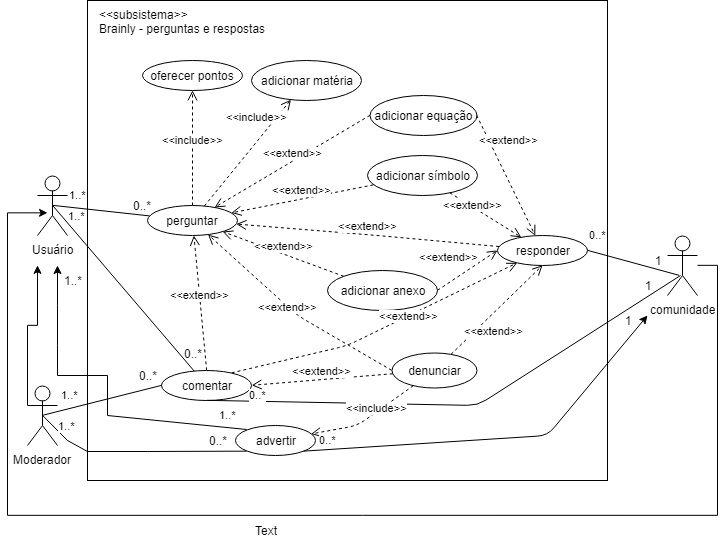
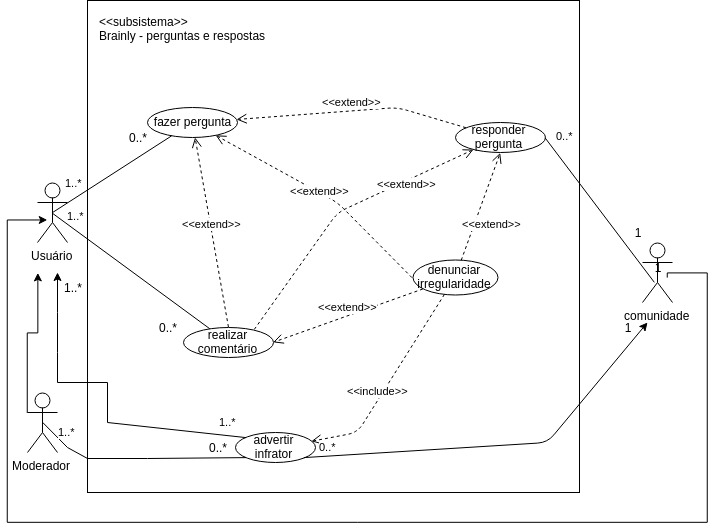
refactoring question and answer use cases

diff --git a/brainly/docs/casos_uso_perguntas_respostas.md b/brainly/docs/casos_uso_perguntas_respostas.md
@@ -1,11 +1,13 @@
-# [PERGUNTAS E RESPOSTAS](rich_picture.md#RichPicture Perguntas e Respostas)
+# CASO DE USO - [PERGUNTAS E RESPOSTAS](rich_picture.md#richpicture-perguntas-e-respostas)
 
 ## Versionamento
 
 |  Versão | Data | Modificação | Autor |
 |  :------: | :------: | :------: | :------: |
-| 1.0 | 28/04/2019 | Adição do diagrama de casos de uso de perguntas e respostas | Lieverton |
-| 1.1 | 28/04/2019 | Adição da especificação dos casos de uso de perguntas e respostas | Lieverton, João Matheus, Paulo Vitor, João Rossi |
+| 0.1 | 28/04/2019 | Adição do diagrama de casos de uso de perguntas e respostas | Lieverton, Welison |
+| [1.0](modelagem_v1/casos_uso/casos_uso_perguntas_respostas.md) | 28/04/2019 | Adição da especificação dos casos de uso de perguntas e respostas | Lieverton, João Matheus, Paulo Vitor, João Rossi |
+| 1.1 | 21/06/2019 | Refatora diagrama de caso de uso de perguntas e respostas | Lieverton Silva, Welison Regis |
+| 2.0 | 21/06/2019 | Adiciona 5 especificações de caso de uso de perguntas e respostas | Lieverton Silva, Welison Regis |
 
 ## Diagrama de Casos de Uso
 
@@ -13,79 +15,66 @@
 
 ## Especificação de Casos de Uso
 
-### 1 Breve descrição
-O usuário faz uma pergunta para ser respondida por outros usuários, utilizando seus pontos para recompensar quem respondê-la de maneira coerente.
+### UC01
 
-### 2 Breve descrição dos atores
+| UC01 | Fazer pergunta |
+| -------------: | :---|
+| **Descrição** | Um usuário acessa o Brainly e faz uma pergunta. |
+| [Usuário](lexicos10x5f8c4.md#L12660) | Ator que possui acesso às funcionalidade comuns da plataforma, como, fazer perguntas, escrever respostas e comentários, adicionar amigos, entre outras. |
+| **Pré-condições** | - Ser cadastrado na plataforma Brainly;<br/> - Possuir no mínimo dez pontos para realizar uma pergunta;<br/> - Estar logado. |
+| **Fluxo básico** | 1. Usuário pesquisa pela sua dúvida no Brainly;<br/> 2. Se o usuário não encontrar uma tarefa relacionada, usuário faz uma pergunta;<br/> 3. Usuário adiciona a matéria associada à pergunta;<br/> 4. Usuário atribui pontos à questão;<br/>5. Se o usuário estiver satisfeito com a questão ele a submete.|
+| **Fluxos alternativos** | 2.a Usuário encontra a questão desejada;<br/> 5.a Usuário adiciona anexos;<br/>5.b Usuário adiciona equações na ferramenta LaTeX;<br/>5.c Usuário adiciona símbolos matemáticos;<br/>5.d Usuário adiciona texto com diferentes formatações.|
+| **Fluxos de exceções** | [2 - 4] Usuário reinicia a página acidentalmente, ao clicar em fazer pergunta novamente, tudo o que o usuário tinha digitado e escolhido na pergunta anteriormente se mantém;<br/>[2] Usuário digita uma pergunta com menos de 20 caracteres e recebe uma mensagem de erro sem  que sua mensagem seja apagada. |
+|  **Requisitos Especiais** | - Responsabilizar o usuário por todos os dados enviados ou transmitidos em conexão com os serviços [BR2.1](brainstorm.md#tabela-de-requisitos-nao-funcionais);<br/> - Apagar perguntas que estão sem respostas por muito tempo [BR2.15](brainstorm.md#tabela-de-requisitos-nao-funcionais);<br/> - Possuir idade mínima (13) para se registrar na plataforma [BR2.1](brainstorm.md#tabela-de-requisitos-nao-funcionais). |
 
-#### 2.1 [Usuário](lexicos10x5f8c4.md#L12660)
-Ator que possui acesso às funcionalidade comuns da plataforma, como, fazer perguntas, escrever respostas e comentários, adicionar amigos, entre outras.
+### UC02
 
-#### 2.2 [Moderador](lexicos10x5f8c4.md#L12528)
-Ator que modera os conteúdos do Brainly, esclarece as políticas da plataforma à comunidade e mantém o nível de qualidade das perguntas, respostas e comentários.
+| UC02 | Responder pergunta |
+| -------------: | :---|
+| **Descrição** | Um usuário da comunidade acessa o Brainly e responde uma pergunta. |
+| [Usuário](lexicos10x5f8c4.md#L12660) | Ator que possui acesso às funcionalidade comuns da plataforma, como, fazer perguntas, escrever respostas e comentários, adicionar amigos, entre outras. |
+| [Comunidade](lexicos10x5f8c4.md#L12525) | Conjunto de usuários em prol de se ajudarem. |
+| **Pré-condições** | - Ser cadastrado na plataforma Brainly;<br/> - Estar logado;<br/> - Um usuário fazer uma pergunta ([5. UC01](#uc01));<br/> - A pegunta não ser respondida por 2 usuários.|
+| **Fluxo básico** | 1. Usuário da comunidade, que deseja contribuir, navega pela listas de perguntas;<br/> 2. Usuário da comunidade escolhe uma pergunta;<br/> 3. Usuário da comunidade responde uma pergunta. |
+| **Fluxos alternativos** | 3.a Usuário adiciona anexos;<br/>3.b Usuário adiciona equações na ferramenta LaTeX;<br/>3.c Usuário adiciona símbolos matemáticos;<br/>3.d Usuário adiciona texto com diferentes formatações.|
+| **Fluxos de exceções** | [3] Usuário da comunidade digita uma resposta com menos de 20 caracteres e recebe uma mensagem de erro sem  que sua mensagem seja apagada. |
+|  **Requisitos Especiais** | - Responsabilizar o usuário por todos os dados enviados ou transmitidos em conexão com os serviços [BR2.1](brainstorm.md#tabela-de-requisitos-nao-funcionais);<br/> - Possuir idade mínima (13) para se registrar na plataforma [BR2.1](brainstorm.md#tabela-de-requisitos-nao-funcionais);<br/> - A ferramenta que possibilita respostas deve ser consistente entre as plataformas [INT1.2](introspeccao.md);<br/> - A plataforma deve possuir membros ativos que ajudem a comunidade a crescer e respondam as perguntas de forma rápida e fácil [INT3.6](introspecção). |
 
-#### 2.3 [Comunidade](lexicos10x5f8c4.md#L12525)
-Conjunto de usuários em prol de se ajudarem.
+### UC03
 
-### 3 Pré-condições
-Ser cadastrado na plataforma Brainly.
-Possuir no mínimo dez pontos para realizar uma pergunta.
+| UC03 | Realizar comentário |
+| -------------: | :---|
+| **Descrição** | Um usuário com interece de interagir ou realizar um esclarecimento faz um comentário a partir de uma pergunta ou resposta. |
+| [Usuário](lexicos10x5f8c4.md#L12660) | Ator que possui acesso às funcionalidade comuns da plataforma, como, fazer perguntas, escrever respostas e comentários, adicionar amigos, entre outras. |
+| [Moderador](lexicos10x5f8c4.md#L12528) | Ator que modera os conteúdos do Brainly, esclarece as políticas da plataforma à comunidade e mantém o nível de qualidade das perguntas, respostas e comentários. |
+| **Pré-condições** | - Ser cadastrado na plataforma Brainly;<br/> - Estar logado;<br/> - Um usuário fazer uma pergunta ([5. UC01](#uc01)) ou um usuário responder uma pergunta ([3. UC02](#uc02)).|
+| **Fluxo básico** | 1. Um usuário com interece de interagir ou realizar um esclarecimento faz um comentário a partir de uma pergunta ou resposta. |
+| **Fluxos alternativos** | 1.a Um usuário faz uma denúncia ([3. UC04](#uc04)) e um moderador faz um comentário. |
+| **Fluxos de exceções** | [1] Usuário da comunidade digita um comentário com menos de 20 caracteres e recebe uma mensagem de erro sem  que sua mensagem seja apagada.|
+|  **Requisitos Especiais** | - Responsabilizar o usuário por todos os dados enviados ou transmitidos em conexão com os serviços [BR2.1](brainstorm.md#tabela-de-requisitos-nao-funcionais);<br/> - Possuir idade mínima (13) para se registrar na plataforma [BR2.1](brainstorm.md#tabela-de-requisitos-nao-funcionais). |
 
-### 4 Fluxo básico de eventos
+### UC04
 
-    1. O caso de uso começa quando o usuário possui uma dúvida e decide fazer uma pergunta na plataforma Brainly para saná-la.
+| UC04 | Denunciar irregularidade |
+| -------------: | :---|
+| **Descrição** | Um usuário após ver uma irregularidade faz uma denúncia. |
+| [Usuário](lexicos10x5f8c4.md#L12660) | Ator que possui acesso às funcionalidade comuns da plataforma, como, fazer perguntas, escrever respostas e comentários, adicionar amigos, entre outras. |
+| **Pré-condições** | - Ser cadastrado na plataforma Brainly;<br/> - Estar logado;<br/> - Um usuário fazer uma pergunta ([5. UC01](#uc01)) ou um usuário responder uma pergunta ([3. UC02](#uc02)) ou um usuário fazer um comentário ([1. UC03](#uc03)) indevido.|
+| **Fluxo básico** | 1. O usuário após ver uma irregularidade faz uma denúncia;<br/> 2. O usuário seleciona a categoria;<br/> 3. Usuário confirma a denúncia. |
+| **Fluxos alternativos** | - |
+| **Fluxos de exceções** | - |
+|  **Requisitos Especiais** | - Responsabilizar o usuário por todos os dados enviados ou transmitidos em conexão com os serviços [BR2.1](brainstorm.md#tabela-de-requisitos-nao-funcionais);<br/> - Possuir idade mínima (13) para se registrar na plataforma [BR2.1](brainstorm.md#tabela-de-requisitos-nao-funcionais). |
 
-    2. Usuário digita uma pergunta.
+### UC05
 
-    3. Usuário oferece pontos.
-
-    4. Usuário adiciona matéria que corresponde à área de conhecimento da pergunta.
-
-    5. O usuário finaliza a pergunta.
-
-    6. Um segundo usuário da comunidade, que deseja contribuir, navega pela listas de perguntas.
-
-    7. Esse usuário escolhe uma pergunta.
-
-    8. Esse usuário responde a pergunta.
-
-### 5 Fluxos alternativos
-
-    2.a Usuário adiciona uma equação à pergunta.
-
-    2.b Usuário adiciona um anexo à pergunta.
-
-    2.c Usuário adiciona símbolo à pergunta. 
-
-    7.a Usuários ou moderadores comentam em uma pergunta.
-
-    7.b A comunidade denuncia más práticas em uma pergunta.
-
-    7.c O moderador adverte o usuário que cometeu a infração.
-
-    8.a Usuários ou moderadores comentam em uma resposta.
-
-    8.b A comunidade denuncia más práticas em uma pergunta.
-
-    8.c O moderador adverte o usuário que cometeu a infração.
-
-### 6 Fluxo de Exceções
-
-    [2 - 4] Usuário aperta f5(reinicia a página) acidentalmente, ao clicar em fazer pergunta novamente, tudo o que o usuário tinha digitado e escolhido na pergunta anteriormente se mantém.
-
-    [2] Usuário digita uma pergunta com menos de 20 caracteres e recebe uma mensagem de erro sem  que sua mensagem seja apagada.
-
-### 7 Requisitos Especiais
-
-1. Responsabilizar o usuário por todos os dados enviados ou transmitidos em conexão com os serviços [BR2.1](brainstorm.md#Tabela de Requisitos Funcionais).
-
-2. Apagar perguntas que estão sem respostas por muito tempo [BR2.15](brainstorm.md).
-
-3. A ferramenta que possibilita respostas deve ser consistente entre as plataformas [INT1.2](introspeccao.md).
-
-4. Para aplicação de punições, deve-se levar em conta a conduta (advertências) do usuário na plataforma
-[INT2.10](introspeccao.md).
-
-5. Possuir idade mínima (13) para se registrar na plataforma [BR2.1](brainstorm.md).
-
-6. A plataforma deve possuir membros ativos que ajudem a comunidade a crescer e respondam as perguntas de forma rápida e fácil [INT3.6](introspecção).
+| UC05 | Advertir infrator |
+| -------------: | :---|
+| **Descrição** | Um moderador após receber uma denúncia de irregularidade avalia a veracidade do conteúdo. |
+| [Usuário](lexicos10x5f8c4.md#L12660) | Ator que possui acesso às funcionalidade comuns da plataforma, como, fazer perguntas, escrever respostas e comentários, adicionar amigos, entre outras. |
+| [Moderador](lexicos10x5f8c4.md#L12528) | Ator que modera os conteúdos do Brainly, esclarece as políticas da plataforma à comunidade e mantém o nível de qualidade das perguntas, respostas e comentários. |
+| **Pré-condições** | - Ser moderador na plataforma Brainly; <br/> - Estar logado;<br/> - Receber uma denúncia ou visualizar uma irregularidade.|
+| **Fluxo básico** | 1. O moderador visualiza as denúncias no painel de moderação;<br/> 2. O moderador escolhe uma denúncia para avaliar;<br/>3. Se houver irregularidade o moderador exclui o conteúdo indevido. |
+| **Fluxos alternativos** | 2.a O moderador pede a correção do conteúdo. <br/> 3.a O moderador aplica advertência;<br/> 3.b O moderador tira pontos do usuário infrator; <br/> 3.c O moderador comunica o usuário infrator. |
+| **Fluxos de exceções** | [2 3] O moderdarador fica bloqueado devido grande número de ações em um curto período de tempo.|
+|  **Requisitos Especiais** | - Responsabilizar o usuário por todos os dados enviados ou transmitidos em conexão com os serviços [BR2.1](brainstorm.md#tabela-de-requisitos-nao-funcionais);<br/> - Possuir idade mínima (13) para se registrar na plataforma [BR2.1](brainstorm.md#tabela-de-requisitos-nao-funcionais);<br/> - Para aplicação de punições, deve-se levar em conta a conduta (advertências) do usuário na plataforma
+[INT2.10](introspeccao.md). |

diff --git a/brainly/docs/modelagem_v1/casos_uso/casos_uso_perguntas_respostas.md b/brainly/docs/modelagem_v1/casos_uso/casos_uso_perguntas_respostas.md
@@ -1,0 +1,91 @@
+# CASO DE USO - [PERGUNTAS E RESPOSTAS](../../rich_picture.md#richpicture-perguntas-e-respostas)
+
+## Versionamento
+
+|  Versão | Data | Modificação | Autor |
+|  :------: | :------: | :------: | :------: |
+| 1.0 | 28/04/2019 | Adição do diagrama de casos de uso de perguntas e respostas | Lieverton, Welison |
+| 1.1 | 28/04/2019 | Adição da especificação dos casos de uso de perguntas e respostas | Lieverton, João Matheus, Paulo Vitor, João Rossi |
+
+## Diagrama de Casos de Uso
+
+![Diagrama de casos de uso: perguntas e respostas](../../images/diagramas_casos_uso/Perguntas_Respostas.png)
+
+## Especificação de Casos de Uso
+
+### 1 Breve descrição
+O usuário faz uma pergunta para ser respondida por outros usuários, utilizando seus pontos para recompensar quem respondê-la de maneira coerente.
+
+### 2 Breve descrição dos atores
+
+#### 2.1 [Usuário](../../lexicos10x5f8c4.md#L12660)
+Ator que possui acesso às funcionalidade comuns da plataforma, como, fazer perguntas, escrever respostas e comentários, adicionar amigos, entre outras.
+
+#### 2.2 [Moderador](../../lexicos10x5f8c4.md#L12528)
+Ator que modera os conteúdos do Brainly, esclarece as políticas da plataforma à comunidade e mantém o nível de qualidade das perguntas, respostas e comentários.
+
+#### 2.3 [Comunidade](../../lexicos10x5f8c4.md#L12525)
+Conjunto de usuários em prol de se ajudarem.
+
+### 3 Pré-condições
+Ser cadastrado na plataforma Brainly.
+Possuir no mínimo dez pontos para realizar uma pergunta.
+
+### 4 Fluxo básico de eventos
+
+    1. O caso de uso começa quando o usuário possui uma dúvida e decide fazer uma pergunta na plataforma Brainly para saná-la.
+
+    2. Usuário digita uma pergunta.
+
+    3. Usuário oferece pontos.
+
+    4. Usuário adiciona matéria que corresponde à área de conhecimento da pergunta.
+
+    5. O usuário finaliza a pergunta.
+
+    6. Um segundo usuário da comunidade, que deseja contribuir, navega pela listas de perguntas.
+
+    7. Esse usuário escolhe uma pergunta.
+
+    8. Esse usuário responde a pergunta.
+
+### 5 Fluxos alternativos
+
+    2.a Usuário adiciona uma equação à pergunta.
+
+    2.b Usuário adiciona um anexo à pergunta.
+
+    2.c Usuário adiciona símbolo à pergunta. 
+
+    7.a Usuários ou moderadores comentam em uma pergunta.
+
+    7.b A comunidade denuncia más práticas em uma pergunta.
+
+    7.c O moderador adverte o usuário que cometeu a infração.
+
+    8.a Usuários ou moderadores comentam em uma resposta.
+
+    8.b A comunidade denuncia más práticas em uma pergunta.
+
+    8.c O moderador adverte o usuário que cometeu a infração.
+
+### 6 Fluxo de Exceções
+
+    [2 - 4] Usuário aperta f5(reinicia a página) acidentalmente, ao clicar em fazer pergunta novamente, tudo o que o usuário tinha digitado e escolhido na pergunta anteriormente se mantém.
+
+    [2] Usuário digita uma pergunta com menos de 20 caracteres e recebe uma mensagem de erro sem  que sua mensagem seja apagada.
+
+### 7 Requisitos Especiais
+
+1. Responsabilizar o usuário por todos os dados enviados ou transmitidos em conexão com os serviços [BR2.1](../../brainstorm.md#Tabela de Requisitos Funcionais).
+
+2. Apagar perguntas que estão sem respostas por muito tempo [BR2.15](../../brainstorm.md).
+
+3. A ferramenta que possibilita respostas deve ser consistente entre as plataformas [INT1.2](../../introspeccao.md).
+
+4. Para aplicação de punições, deve-se levar em conta a conduta (advertências) do usuário na plataforma
+[INT2.10](../../introspeccao.md).
+
+5. Possuir idade mínima (13) para se registrar na plataforma [BR2.1](../../brainstorm.md).
+
+6. A plataforma deve possuir membros ativos que ajudem a comunidade a crescer e respondam as perguntas de forma rápida e fácil [INT3.6](../../introspeccao.md).

diff --git a/brainly/docs/analise_casos_de_uso.md b/brainly/docs/analise_casos_de_uso.md
@@ -25,11 +25,11 @@ Sobre os casos de uso mais importantes, no caso o artefato de **perguntas e resp
 Por fim, computou-se um **gráfico de radar** que diz respeito aos critérios de qualidade dos casos de uso. Para cada **critério de qualidade**, deve-se ter no **mínimo 70% de conformidade** com os questionamentos levantados.
 
 
-## MODELO DE VERIFICAÇÃO - ESPECIFICAÇÃO v1.0
-
-![Inspeção de especificação](./images/analise/caso_uso_inspecao_diagrama.png)
-
 ## MODELO DE VERIFICAÇÃO - DIAGRAMAS v1.0
+
+![Inspeção de diagrama](./images/analise/caso_uso_inspecao_diagrama.png)
+
+## MODELO DE VERIFICAÇÃO - ESPECIFICAÇÃO v1.0
 
 ![Inspeção de especificação](./images/analise/caso_uso_inspecao_descricao.png)
 
